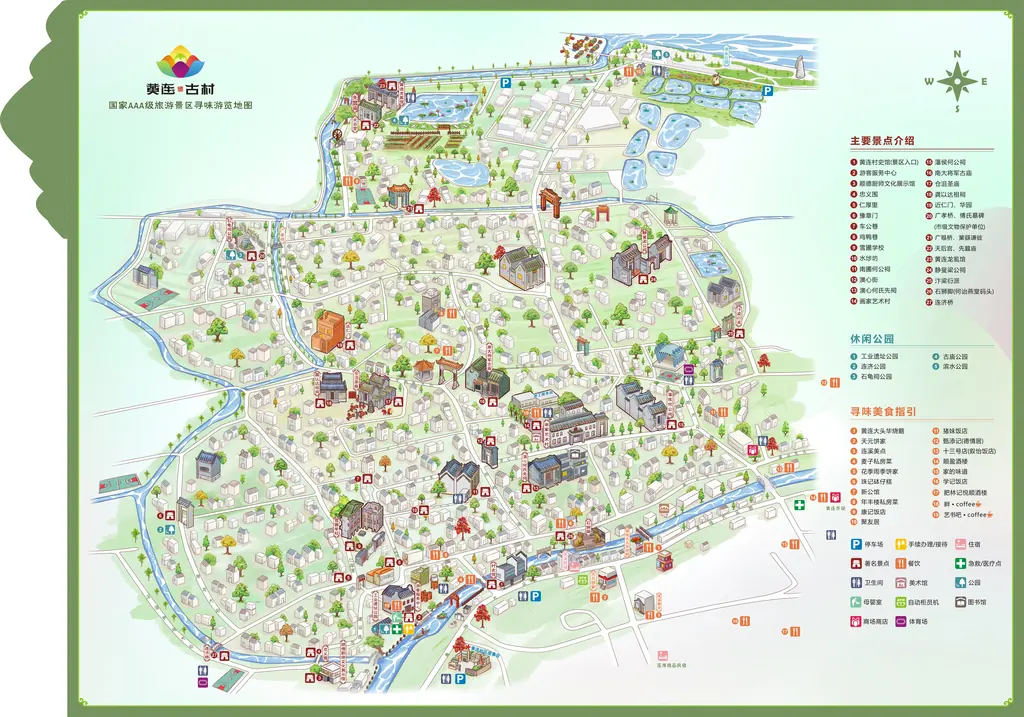
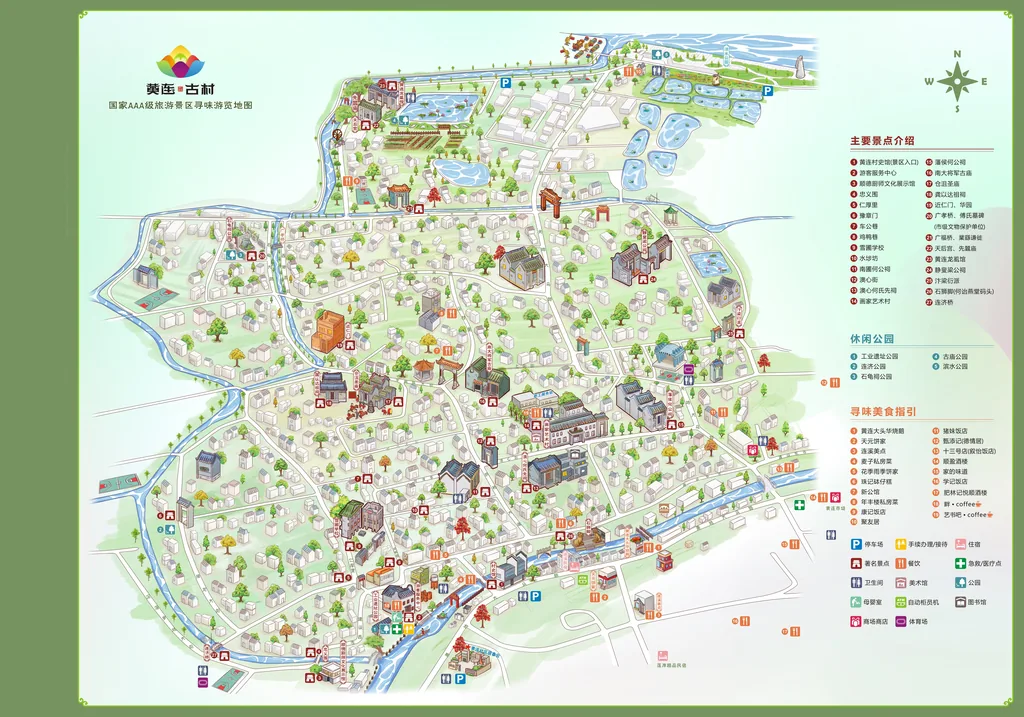
feat: 更新绿色高清地图资源

Changed region(s): [[0.0, 0.1841, 0.0938, 1.0], [0.0, 0.0, 0.0625, 0.1534]]

diff --git a/index.html b/index.html
@@ -7,8 +7,8 @@
   <meta name="description" content="粤韵童行黄连古村联动导览地图">
   <title>黄连古村联动导览</title>
   <link rel="icon" href="assets/favicon-blue.jpg?v=20260823-1" type="image/jpeg">
-  <link rel="stylesheet" href="css/main.css?v=20260823-6">
-  <link rel="stylesheet" href="css/map.css?v=20260823-8">
+  <link rel="stylesheet" href="css/main.css?v=20260824-1">
+  <link rel="stylesheet" href="css/map.css?v=20260824-2">
   <link rel="stylesheet" href="css/modal.css?v=20260823-4">
   <link rel="stylesheet" href="css/routes.css?v=20260823-1">
 </head>
@@ -38,7 +38,7 @@
         <div id="mapViewport" class="map-viewport" tabindex="0" aria-describedby="mapHint">
           <div id="mapViewer" class="map-viewer" aria-hidden="true"></div>
           <div id="mapCanvas" class="map-canvas">
-            <img class="map-image" data-preview-src="assets/map/huanglian-map-preview.webp" data-full-src="assets/map/huanglian-map.jpg" alt="黄连古村手绘导览地图" draggable="false" decoding="async">
+            <img class="map-image" data-preview-src="assets/map/huanglian-map-preview.webp?v=20260824-1" data-full-src="assets/map/huanglian-map.jpg?v=20260824-1" alt="黄连古村手绘导览地图" draggable="false" decoding="async">
             <div id="routeLayer" class="route-layer" aria-hidden="true"></div>
             <footer class="site-record">
               <a href="https://beian.miit.gov.cn/" target="_blank" rel="noopener noreferrer">赣ICP备2026002165号-2</a>
@@ -190,7 +190,7 @@
   <script src="js/spot-card.js?v=20260823-1" defer></script>
   <script src="js/map.js?v=20260823-6" defer></script>
   <script src="js/vendor/openseadragon/6.1.0/openseadragon.min.js" defer></script>
-  <script src="js/map-tiles.js?v=20260823-5" defer></script>
+  <script src="js/map-tiles.js?v=20260824-1" defer></script>
   <script src="js/annotator.js?v=20260823-4" defer></script>
   <script src="js/village-intro.js?v=20260823-1" defer></script>
   <script src="js/app.js?v=20260823-2" defer></script>

diff --git a/js/map-tiles.js b/js/map-tiles.js
@@ -8,7 +8,7 @@
   var MAP_WIDTH = 8091;
   var MAP_HEIGHT = 5669;
   var INITIAL_FOCUS = { x: 0.45, y: 0.45 };
-  var TILE_SOURCE = "assets/map/tiles/v2/huanglian.dzi";
+  var TILE_SOURCE = "assets/map/tiles/v3/huanglian.dzi";
   var SPOT_ICONS = {
     "longshi": "assets/icons/longshi.jpg",
     "jiyaxiang": "assets/icons/jiyaxiang.jpg",

diff --git a/tools/generate-map-assets.py b/tools/generate-map-assets.py
@@ -1,0 +1,100 @@
+"""Generate preview images and an immutable WebP DZI pyramid for the map."""
+
+from __future__ import annotations
+
+import argparse
+import math
+import shutil
+from pathlib import Path
+
+from PIL import Image
+
+
+EXPECTED_SIZE = (8091, 5669)
+TILE_SIZE = 512
+OVERLAP = 1
+
+
+def save_webp(image: Image.Image, path: Path, quality: int) -> None:
+    image.save(path, "WEBP", quality=quality, method=6)
+
+
+def generate_tiles(source: Image.Image, output_base: Path, quality: int) -> int:
+    max_level = math.ceil(math.log2(max(source.size)))
+    tile_root = output_base.parent / f"{output_base.name}_files"
+    level_image = source.copy()
+    total_tiles = 0
+
+    for level in range(max_level, -1, -1):
+        level_dir = tile_root / str(level)
+        level_dir.mkdir(parents=True, exist_ok=True)
+        width, height = level_image.size
+        columns = math.ceil(width / TILE_SIZE)
+        rows = math.ceil(height / TILE_SIZE)
+
+        for row in range(rows):
+            for column in range(columns):
+                left = column * TILE_SIZE - (OVERLAP if column else 0)
+                top = row * TILE_SIZE - (OVERLAP if row else 0)
+                right = min(width, (column + 1) * TILE_SIZE + (OVERLAP if column < columns - 1 else 0))
+                bottom = min(height, (row + 1) * TILE_SIZE + (OVERLAP if row < rows - 1 else 0))
+                tile = level_image.crop((left, top, right, bottom))
+                save_webp(tile, level_dir / f"{column}_{row}.webp", quality)
+                total_tiles += 1
+
+        print(f"level {level}: {width}x{height}, {columns * rows} tiles", flush=True)
+        if level:
+            level_image = level_image.resize(
+                (math.ceil(width / 2), math.ceil(height / 2)),
+                Image.Resampling.LANCZOS,
+            )
+
+    descriptor = (
+        '<?xml version="1.0" encoding="UTF-8"?>\n'
+        f'<Image xmlns="http://schemas.microsoft.com/deepzoom/2008" TileSize="{TILE_SIZE}" '
+        f'Overlap="{OVERLAP}" Format="webp">\n'
+        f'  <Size Width="{EXPECTED_SIZE[0]}" Height="{EXPECTED_SIZE[1]}"/>\n'
+        '</Image>\n'
+    )
+    output_base.with_suffix(".dzi").write_text(descriptor, encoding="utf-8")
+    return total_tiles
+
+
+def main() -> None:
+    parser = argparse.ArgumentParser()
+    parser.add_argument("--version", required=True)
+    parser.add_argument("--quality", type=int, default=88)
+    args = parser.parse_args()
+    if not args.version.startswith("v") or not args.version[1:].isalnum():
+        raise SystemExit("Version must look like v3")
+
+    workspace = Path(__file__).resolve().parents[1]
+    map_dir = workspace / "assets" / "map"
+    source_path = map_dir / "huanglian-map.jpg"
+    tiles_root = (map_dir / "tiles").resolve()
+    output_dir = (tiles_root / args.version).resolve()
+    if tiles_root not in output_dir.parents:
+        raise SystemExit("Refusing to generate outside assets/map/tiles")
+    if output_dir.exists():
+        raise SystemExit(f"Tile version already exists: {output_dir}")
+
+    with Image.open(source_path) as opened:
+        source = opened.convert("RGB")
+    if source.size != EXPECTED_SIZE:
+        raise SystemExit(f"Unexpected map dimensions: {source.size}; expected {EXPECTED_SIZE}")
+
+    output_dir.mkdir(parents=True)
+    try:
+        save_webp(source.resize((2048, 1435), Image.Resampling.LANCZOS), map_dir / "huanglian-map-preview.webp", 88)
+        save_webp(source.resize((1024, 717), Image.Resampling.LANCZOS), map_dir / "huanglian-map-placeholder.webp", 82)
+        tile_count = generate_tiles(source, output_dir / "huanglian", args.quality)
+    except Exception:
+        if output_dir.is_relative_to(tiles_root):
+            shutil.rmtree(output_dir, ignore_errors=True)
+        raise
+
+    print(f"generated {tile_count} tiles in {output_dir}")
+
+
+if __name__ == "__main__":
+    main()

diff --git a/assets/map/README.md b/assets/map/README.md
@@ -1,8 +1,14 @@
 # 地图素材说明
 
-- `huanglian-map.jpg`：团队提供的高清黄连古村地图原文件副本，8091 × 5669。文件内容未重新编码，SHA-256 与素材目录中的原文件一致。
+- `huanglian-map.jpg`：团队修订绿色外沿后的高清黄连古村地图，8091 × 5669；画布尺寸未改变，百分比坐标继续有效。
 - `huanglian-map-preview.webp`：2048 × 1435 的普通模式预览图。仅在瓦片不可用或主动使用 `?map=legacy` 时加载，地图放大到 135% 后再加载高清原图。
 - `huanglian-map-placeholder.webp`：1024 × 717 的瓦片模式占位图。首批可见瓦片绘制后即停止显示。
-- `tiles/v2/`：512 × 512、重叠 1 像素的 WebP DZI 静态瓦片金字塔，共 14 层。
+- `tiles/v3/`：由绿色外沿高清图生成的 512 × 512、重叠 1 像素 WebP DZI 静态瓦片金字塔，共 14 层。
 
 收到新版正式地图时，应保留原始高清文件，并同步重新生成首屏预览图。
+
+当前环境没有 libvips 时，也可以使用已安装 Pillow 的 Python 执行：
+
+```powershell
+python .\tools\generate-map-assets.py --version v4
+```

diff --git a/README.md b/README.md
@@ -55,12 +55,12 @@ http://127.0.0.1:5500/?debug=1
 
 ## 地图瓦片维护
 
-网页默认读取 `assets/map/tiles/v2/huanglian.dzi`，OpenSeadragon 已作为静态文件保存在 `js/vendor/`，不需要 npm 或外部 CDN。
+网页默认读取 `assets/map/tiles/v3/huanglian.dzi`，OpenSeadragon 已作为静态文件保存在 `js/vendor/`，不需要 npm 或外部 CDN。
 
 更换正式地图后，在安装了 libvips 的电脑执行：
 
 ```powershell
-.\tools\generate-map-tiles.ps1 -Version v3 -VipsPath "C:\path\to\vips.exe"
+.\tools\generate-map-tiles.ps1 -Version v4 -VipsPath "C:\path\to\vips.exe"
 ```
 
 生成脚本会验证 8091 × 5669 原图、DZI 描述、最高层瓦片数量和输出目录。版本目录不可覆盖；生成新版本后，还需要更新 `js/map-tiles.js` 中的 `TILE_SOURCE`。使用 `?map=legacy` 可以强制进入普通单图模式，便于新旧引擎对比。
